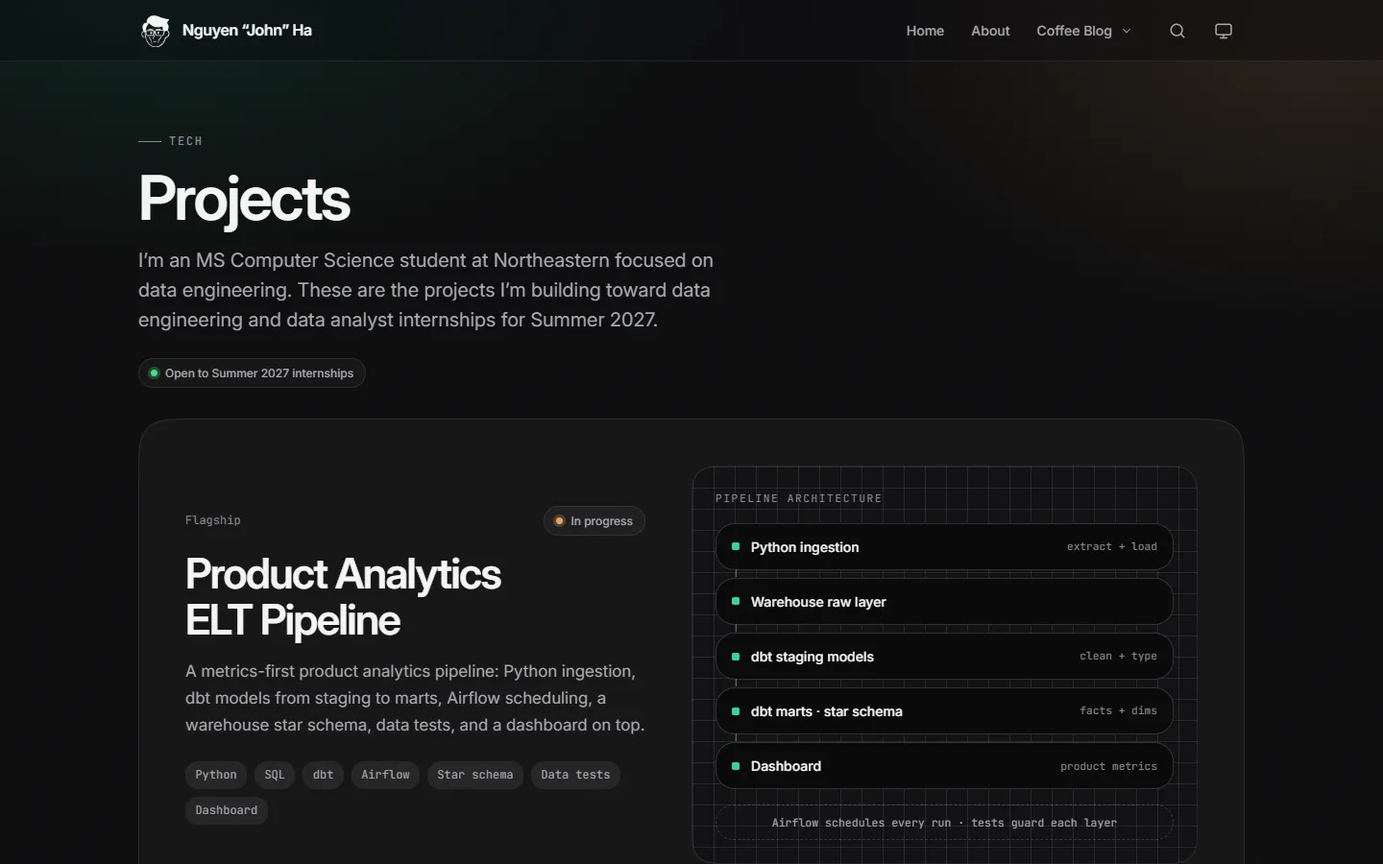
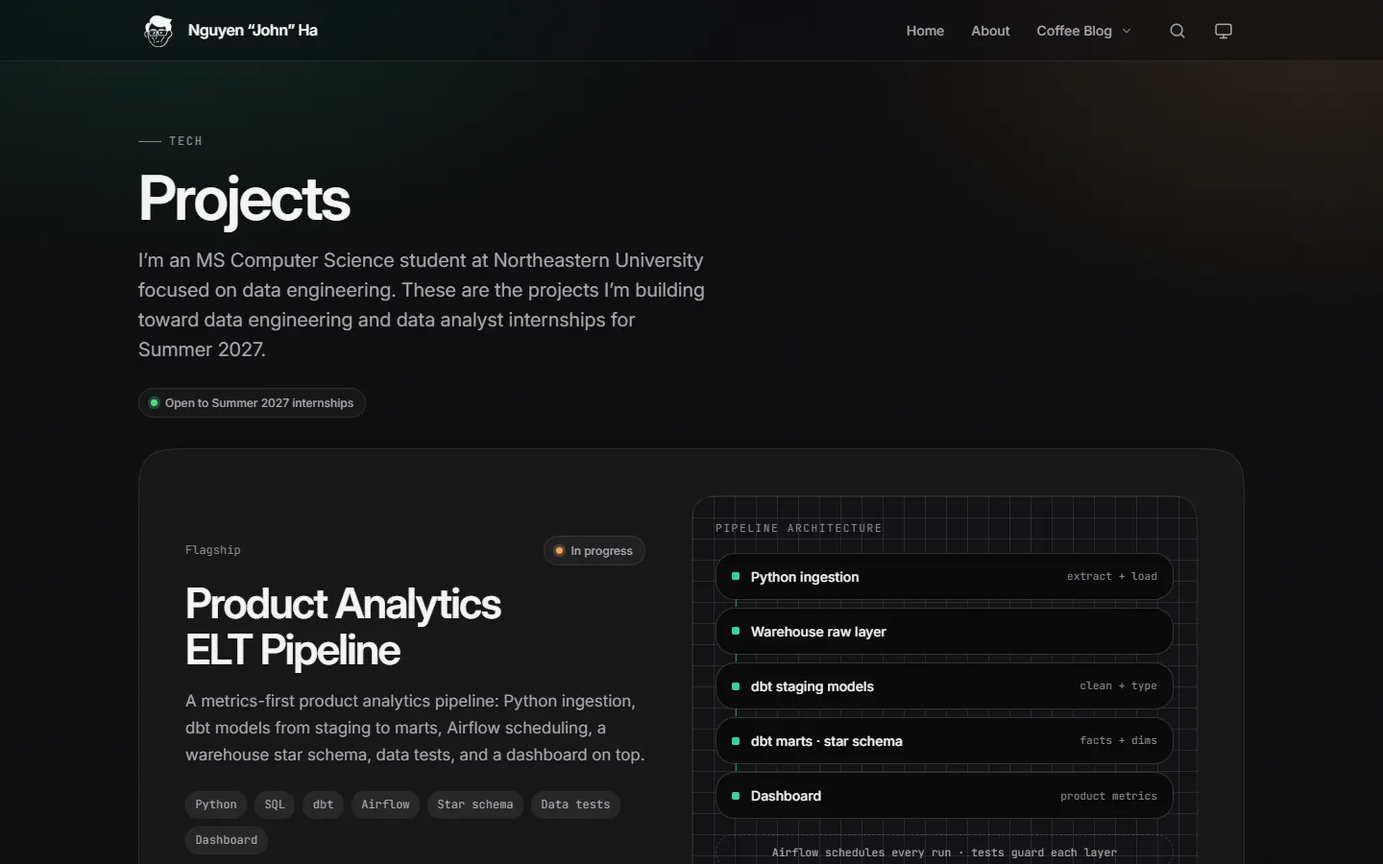
Use full Northeastern University name; refresh coffee photos
- Northeastern University spelled out in hero, About, Tech, OG text and
  image, README, and BRIEF
- Phin: 1898 Father Maillard coffee-garden photo (public domain) and a
  Ho Chi Minh City cafe scene (CC BY 2.0) replace an extra phin photo
- Espresso: tiger-striped crema demitasse photo (CC BY-SA 2.0)
- Flash brew: tighter crop with a warm color grade
- Credits record source site and edits per photo

diff --git a/site/coffee-blog/vietnamese-phin/index.html b/site/coffee-blog/vietnamese-phin/index.html
@@ -16,7 +16,7 @@
 <meta property="og:image" content="https://johnha.info/assets/img/og-image.jpg">
 <meta property="og:image:width" content="1200">
 <meta property="og:image:height" content="630">
-<meta property="og:image:alt" content="Nguyen “John” Ha, MSCS at Northeastern with a data engineering focus">
+<meta property="og:image:alt" content="Nguyen “John” Ha, MSCS at Northeastern University with a data engineering focus">
 <meta name="twitter:card" content="summary_large_image">
 <script>(function(){var p="system";try{p=localStorage.getItem("theme")||"system"}catch(e){}var d=document.documentElement;d.dataset.themePref=p;d.dataset.theme=p==="system"?(matchMedia("(prefers-color-scheme: light)").matches?"light":"dark"):p})()</script>
 <link rel="preload" href="/assets/fonts/inter-latin.woff2" as="font" type="font/woff2" crossorigin>
@@ -122,10 +122,14 @@
     </figure>
 
     <h2>A short history of Vietnamese coffee</h2>
-    <p>Coffee arrived in Vietnam with French colonization in the 1850s; in 1857, a French priest brought a single arabica tree to the country hoping to turn it into a crop. Today Vietnam is known mainly for robusta, which makes up about 95% of its coffee production (Meneses, 2023). Condensed milk became part of the drink early on because fresh milk was hard to find when coffee first arrived (Meneses, 2023), and it keeps without refrigeration because it is preserved with sugar (Copper Cow Coffee, n.d.). The French influence also explains the traditional dark, French-style roast (Copper Cow Coffee, n.d.).</p>
     <figure class="prose-figure prose-figure--portrait">
-      <div class="frame sq" style="aspect-ratio: 4 / 5"><img src="/assets/img/coffee-phin-saigon-960.webp" srcset="/assets/img/coffee-phin-saigon-560.webp 560w, /assets/img/coffee-phin-saigon-960.webp 960w" sizes="(min-width: 48rem) 26rem, 80vw" width="960" height="1200" alt="A phin filter brewing on top of a cup at a café table in Ho Chi Minh City" loading="lazy" decoding="async"></div>
-      <figcaption>A phin brewing at a café in Ho Chi Minh City. <span class="credit">Photo: <a href="https://commons.wikimedia.org/wiki/File:Cafe_Qu%E1%BB%91c_H%C3%B9ng_ng4th9n2022_(c%C3%A0_ph%C3%AA_phin_%C4%91ang_pha)_(3).jpg" target="_blank" rel="noopener">Cafe Quốc Hùng (cà phê phin đang pha)</a> by Phương Huy, <a href="https://creativecommons.org/publicdomain/zero/1.0/" target="_blank" rel="noopener license">CC0 1.0</a>, via Wikimedia Commons (cropped and resized).</span></figcaption>
+      <div class="frame sq" style="aspect-ratio: 4 / 5"><img src="/assets/img/coffee-phin-history-960.webp" srcset="/assets/img/coffee-phin-history-560.webp 560w, /assets/img/coffee-phin-history-960.webp 960w" sizes="(min-width: 48rem) 26rem, 80vw" width="960" height="1200" alt="Father Maillard, a bearded French priest in a pith helmet, standing among tall coffee trees, 1898" loading="lazy" decoding="async"></div>
+      <figcaption>Father Maillard, parish priest of Phu-thuong, among his coffee trees near Tourane (today’s Da Nang), March 28, 1898. Photograph by André Salles. <span class="credit">Photo: <a href="https://commons.wikimedia.org/wiki/File:Tonkin._Pr%C3%A8s_Tourane._Le_P%C3%A8re_Maillard,_cur%C3%A9_de_Phu-thuong,_au_milieu_de_ses_caf%C3%A9iers_01.jpg" target="_blank" rel="noopener">Le Père Maillard, curé de Phu-thuong, au milieu de ses caféiers</a> by André Salles, <a href="https://commons.wikimedia.org/wiki/File:Tonkin._Pr%C3%A8s_Tourane._Le_P%C3%A8re_Maillard,_cur%C3%A9_de_Phu-thuong,_au_milieu_de_ses_caf%C3%A9iers_01.jpg" target="_blank" rel="noopener license">Public domain</a>, via Wikimedia Commons (glass-plate border cropped).</span></figcaption>
+    </figure>
+    <p>Coffee arrived in Vietnam with French colonization in the 1850s; in 1857, a French priest brought a single arabica tree to the country hoping to turn it into a crop. Today Vietnam is known mainly for robusta, which makes up about 95% of its coffee production (Meneses, 2023). Condensed milk became part of the drink early on because fresh milk was hard to find when coffee first arrived (Meneses, 2023), and it keeps without refrigeration because it is preserved with sugar (Copper Cow Coffee, n.d.). The French influence also explains the traditional dark, French-style roast (Copper Cow Coffee, n.d.).</p>
+    <figure class="prose-figure">
+      <div class="frame sq" style="aspect-ratio: 3 / 2"><img src="/assets/img/coffee-phin-cafe-1024.webp" srcset="/assets/img/coffee-phin-cafe-720.webp 720w, /assets/img/coffee-phin-cafe-1024.webp 1024w" sizes="(min-width: 48rem) 42rem, 100vw" width="1024" height="683" alt="People sitting and talking at the long row of sidewalk tables of the Xưa và Nay café in Ho Chi Minh City, in black and white" loading="lazy" decoding="async"></div>
+      <figcaption>Coffee as a social ritual: an afternoon at the Xưa và Nay (“Then and Now”) café in Ho Chi Minh City. <span class="credit">Photo: <a href="https://www.flickr.com/photos/21160385@N02/24247158236" target="_blank" rel="noopener">Cafe Saigon Xưa Và Nay (HCMC, Vietnam 2016)</a> by paularps, <a href="https://creativecommons.org/licenses/by/2.0/" target="_blank" rel="noopener license">CC BY 2.0</a>, via Flickr (cropped and resized).</span></figcaption>
     </figure>
     <p>Vietnamese phin coffee is more than a drink. It is a window into Vietnam’s coffee culture and its history. Try it at home; it might become your favorite way to slow down.</p>
 

diff --git a/site/coffee-blog/espresso/index.html b/site/coffee-blog/espresso/index.html
@@ -16,7 +16,7 @@
 <meta property="og:image" content="https://johnha.info/assets/img/og-image.jpg">
 <meta property="og:image:width" content="1200">
 <meta property="og:image:height" content="630">
-<meta property="og:image:alt" content="Nguyen “John” Ha, MSCS at Northeastern with a data engineering focus">
+<meta property="og:image:alt" content="Nguyen “John” Ha, MSCS at Northeastern University with a data engineering focus">
 <meta name="twitter:card" content="summary_large_image">
 <script>(function(){var p="system";try{p=localStorage.getItem("theme")||"system"}catch(e){}var d=document.documentElement;d.dataset.themePref=p;d.dataset.theme=p==="system"?(matchMedia("(prefers-color-scheme: light)").matches?"light":"dark"):p})()</script>
 <link rel="preload" href="/assets/fonts/inter-latin.woff2" as="font" type="font/woff2" crossorigin>
@@ -94,8 +94,8 @@
     <h2>What is espresso?</h2>
     <p>Do I really need to introduce this? Just kidding. Espresso is a small, concentrated coffee made by forcing hot water through finely ground, tightly packed coffee at high pressure. The Specialty Coffee Association’s classic definition is a 25–35 ml drink brewed from 7–9 g of coffee (14–18 g for a double) with water at 90.5–96.1 °C, at 9–10 atmospheres of pressure, in 20–30 seconds, topped with a thick, dark golden crema. Modern cafés have moved on a little: a 2016 survey of baristas found the typical shot uses an 18–20 g dose, yields about 36.5 g, and runs 25–30 seconds at 9 bars, close to a 1:2 brew ratio (Specialty Coffee Association, 2018). Espresso is also the base of lattes, cappuccinos, and Americanos.</p>
     <figure class="prose-figure">
-      <div class="frame sq" style="aspect-ratio: 16 / 10"><img src="/assets/img/coffee-espresso-1600.webp" srcset="/assets/img/coffee-espresso-640.webp 640w, /assets/img/coffee-espresso-1024.webp 1024w, /assets/img/coffee-espresso-1600.webp 1600w" sizes="(min-width: 48rem) 42rem, 100vw" width="1600" height="1000" alt="Top-down view of an espresso with golden-brown crema in a white cup on a black saucer" loading="lazy" decoding="async"></div>
-      <figcaption>A fresh espresso with its layer of crema. <span class="credit">Photo: <a href="https://commons.wikimedia.org/wiki/File:Espresso_Coffee_01.jpg" target="_blank" rel="noopener">Espresso Coffee 01</a> by Jubair1985, <a href="https://creativecommons.org/publicdomain/zero/1.0/" target="_blank" rel="noopener license">CC0 1.0</a>, via Wikimedia Commons (cropped and resized).</span></figcaption>
+      <div class="frame sq" style="aspect-ratio: 16 / 10"><img src="/assets/img/coffee-espresso-1600.webp" srcset="/assets/img/coffee-espresso-640.webp 640w, /assets/img/coffee-espresso-1024.webp 1024w, /assets/img/coffee-espresso-1600.webp 1600w" sizes="(min-width: 48rem) 42rem, 100vw" width="1600" height="1000" alt="A double espresso in a white demitasse with a thick, tiger-striped golden crema" loading="lazy" decoding="async"></div>
+      <figcaption>A double espresso with a thick, tiger-striped crema, the sign of a fresh, well-extracted shot. <span class="credit">Photo: <a href="https://commons.wikimedia.org/wiki/File:Double_Espresso_Shot_in_a_Demitasse.jpg" target="_blank" rel="noopener">Double Espresso Shot in a Demitasse</a> by massage-techniques, <a href="https://creativecommons.org/licenses/by-sa/2.0/" target="_blank" rel="noopener license">CC BY-SA 2.0</a>, via Wikimedia Commons (cropped, resized, and color-graded; shared under CC BY-SA 2.0).</span></figcaption>
     </figure>
 
     <h2>My usual espresso profile</h2>

diff --git a/site/coffee-blog/pour-over-flash-brew/index.html b/site/coffee-blog/pour-over-flash-brew/index.html
@@ -16,7 +16,7 @@
 <meta property="og:image" content="https://johnha.info/assets/img/og-image.jpg">
 <meta property="og:image:width" content="1200">
 <meta property="og:image:height" content="630">
-<meta property="og:image:alt" content="Nguyen “John” Ha, MSCS at Northeastern with a data engineering focus">
+<meta property="og:image:alt" content="Nguyen “John” Ha, MSCS at Northeastern University with a data engineering focus">
 <meta name="twitter:card" content="summary_large_image">
 <script>(function(){var p="system";try{p=localStorage.getItem("theme")||"system"}catch(e){}var d=document.documentElement;d.dataset.themePref=p;d.dataset.theme=p==="system"?(matchMedia("(prefers-color-scheme: light)").matches?"light":"dark"):p})()</script>
 <link rel="preload" href="/assets/fonts/inter-latin.woff2" as="font" type="font/woff2" crossorigin>
@@ -121,8 +121,8 @@
     <h2>What is flash brew (Japanese iced coffee)?</h2>
     <p>Flash brew, also called Japanese iced coffee, is a pour-over brewed directly onto ice. Part of the brewing water is replaced by ice in the carafe, so the hot coffee cools the moment it lands. The method dates to around the 1960s in Japan and spread through specialty coffee from the 2010s onward (Gates, 2024). Brewing hot and chilling right away keeps more of the coffee’s aroma and acidity than steeping in cold water, which is why flash brew tastes brighter and cleaner than most iced coffee (Janzen, 2016).</p>
     <figure class="prose-figure prose-figure--portrait">
-      <div class="frame sq" style="aspect-ratio: 4 / 5"><img src="/assets/img/coffee-flash-brew-960.webp" srcset="/assets/img/coffee-flash-brew-560.webp 560w, /assets/img/coffee-flash-brew-960.webp 960w" sizes="(min-width: 48rem) 26rem, 80vw" width="960" height="1200" alt="A V60 dripper on a glass server filled with ice, sitting on a digital scale in front of a brick wall" loading="lazy" decoding="async"></div>
-      <figcaption>Flash brew: the V60 drips hot coffee straight onto ice in the server, on a scale so the ice counts toward the water. <span class="credit">Photo: <a href="https://commons.wikimedia.org/wiki/File:Iced_filter_coffee_with_Assembly_coffee_(49905389451).jpg" target="_blank" rel="noopener">Iced filter coffee with Assembly coffee</a> by Bex Walton, <a href="https://creativecommons.org/licenses/by/2.0/" target="_blank" rel="noopener license">CC BY 2.0</a>, via Wikimedia Commons (cropped and resized).</span></figcaption>
+      <div class="frame sq" style="aspect-ratio: 4 / 5"><img src="/assets/img/coffee-flash-brew-960.webp" srcset="/assets/img/coffee-flash-brew-560.webp 560w, /assets/img/coffee-flash-brew-960.webp 960w" sizes="(min-width: 48rem) 26rem, 80vw" width="960" height="1200" alt="A V60 dripper on a glass server filled with ice, sitting on a digital scale in warm sunlight" loading="lazy" decoding="async"></div>
+      <figcaption>Flash brew: the V60 drips hot coffee straight onto ice in the server, on a scale so the ice counts toward the water. <span class="credit">Photo: <a href="https://commons.wikimedia.org/wiki/File:Iced_filter_coffee_with_Assembly_coffee_(49905389451).jpg" target="_blank" rel="noopener">Iced filter coffee with Assembly coffee</a> by Bex Walton, <a href="https://creativecommons.org/licenses/by/2.0/" target="_blank" rel="noopener license">CC BY 2.0</a>, via Wikimedia Commons (cropped, resized, and color-graded).</span></figcaption>
     </figure>
 
     <h2>How to make flash brew, step by step</h2>

diff --git a/site/index.html b/site/index.html
@@ -11,12 +11,12 @@
 <meta property="og:type" content="website">
 <meta property="og:site_name" content="Nguyen “John” Ha">
 <meta property="og:title" content="Nguyen “John” Ha | Portfolio">
-<meta property="og:description" content="MSCS @ Northeastern · data engineering focus · business/marketing roots.">
+<meta property="og:description" content="MSCS @ Northeastern University · data engineering focus · business/marketing roots.">
 <meta property="og:url" content="https://johnha.info/">
 <meta property="og:image" content="https://johnha.info/assets/img/og-image.jpg">
 <meta property="og:image:width" content="1200">
 <meta property="og:image:height" content="630">
-<meta property="og:image:alt" content="Nguyen “John” Ha, MSCS at Northeastern with a data engineering focus">
+<meta property="og:image:alt" content="Nguyen “John” Ha, MSCS at Northeastern University with a data engineering focus">
 <meta name="twitter:card" content="summary_large_image">
 <script>(function(){var p="system";try{p=localStorage.getItem("theme")||"system"}catch(e){}var d=document.documentElement;d.dataset.themePref=p;d.dataset.theme=p==="system"?(matchMedia("(prefers-color-scheme: light)").matches?"light":"dark"):p})()</script>
 <link rel="preload" href="/assets/fonts/inter-latin.woff2" as="font" type="font/woff2" crossorigin>
@@ -78,7 +78,7 @@
     <span class="muted">Welcome to</span>
     <span class="gradient-text">John’s Portfolio!</span>
   </h1>
-  <p class="hero__subtitle"><span>MSCS @ Northeastern</span><span class="dot" aria-hidden="true">·</span><span>data engineering focus</span><span class="dot" aria-hidden="true">·</span><span>business/marketing roots</span></p>
+  <p class="hero__subtitle"><span>MSCS @ Northeastern University</span><span class="dot" aria-hidden="true">·</span><span>data engineering focus</span><span class="dot" aria-hidden="true">·</span><span>business/marketing roots</span></p>
   <ul class="socials" aria-label="Social profiles">
     <li><a class="social" href="https://www.linkedin.com/in/nguyenha912/" target="_blank" rel="noopener me" aria-label="LinkedIn (opens in a new tab)"><svg viewBox="0 0 24 24" fill="currentColor" aria-hidden="true"><path d="M20.45 20.45h-3.55v-5.57c0-1.33-.03-3.04-1.85-3.04-1.85 0-2.14 1.45-2.14 2.94v5.67H9.36V9h3.41v1.56h.05c.48-.9 1.64-1.85 3.37-1.85 3.6 0 4.27 2.37 4.27 5.46v6.28zM5.34 7.43a2.06 2.06 0 1 1 0-4.13 2.06 2.06 0 0 1 0 4.13zM7.12 20.45H3.56V9h3.56v11.45zM22.22 0H1.77C.79 0 0 .77 0 1.73v20.54C0 23.23.79 24 1.77 24h20.45c.98 0 1.78-.77 1.78-1.73V1.73C24 .77 23.2 0 22.22 0z"/></svg></a></li>
     <li><a class="social" href="https://github.com/johnha912" target="_blank" rel="noopener me" aria-label="GitHub (opens in a new tab)"><svg viewBox="0 0 24 24" fill="currentColor" aria-hidden="true"><path d="M12 .3a12 12 0 0 0-3.8 23.38c.6.12.83-.26.83-.57l-.02-2.04c-3.34.72-4.04-1.61-4.04-1.61-.55-1.39-1.34-1.76-1.34-1.76-1.08-.74.09-.73.09-.73 1.2.09 1.84 1.24 1.84 1.24 1.07 1.83 2.8 1.3 3.49 1 .1-.78.42-1.31.76-1.61-2.67-.3-5.47-1.33-5.47-5.93 0-1.31.47-2.38 1.24-3.22-.14-.3-.54-1.52.1-3.18 0 0 1-.32 3.3 1.23a11.5 11.5 0 0 1 6 0c2.28-1.55 3.29-1.23 3.29-1.23.64 1.66.24 2.88.12 3.18a4.65 4.65 0 0 1 1.23 3.22c0 4.61-2.8 5.62-5.48 5.92.42.36.81 1.1.81 2.22l-.01 3.29c0 .32.21.7.82.58A12 12 0 0 0 12 .3"/></svg></a></li>

diff --git a/site/about/index.html b/site/about/index.html
@@ -16,7 +16,7 @@
 <meta property="og:image" content="https://johnha.info/assets/img/og-image.jpg">
 <meta property="og:image:width" content="1200">
 <meta property="og:image:height" content="630">
-<meta property="og:image:alt" content="Nguyen “John” Ha, MSCS at Northeastern with a data engineering focus">
+<meta property="og:image:alt" content="Nguyen “John” Ha, MSCS at Northeastern University with a data engineering focus">
 <meta name="twitter:card" content="summary_large_image">
 <script>(function(){var p="system";try{p=localStorage.getItem("theme")||"system"}catch(e){}var d=document.documentElement;d.dataset.themePref=p;d.dataset.theme=p==="system"?(matchMedia("(prefers-color-scheme: light)").matches?"light":"dark"):p})()</script>
 <link rel="preload" href="/assets/fonts/inter-latin.woff2" as="font" type="font/woff2" crossorigin>
@@ -80,7 +80,7 @@
 </section>
 
 <section class="container container--narrow">
-  <p class="intro" data-reveal>Hi, I’m <strong>Nguyên, or you can just call me John!</strong> I started in business: international business in Ho Chi Minh City, a master’s in marketing in Boston, then years in <strong>market research</strong>. From there I moved into <strong>financial engineering</strong>, and now <strong>computer science at Northeastern</strong>, where I’m focused on <strong>data engineering</strong>. I’m passionate about leveraging technology, finance, and data-driven insights to solve real-world challenges.</p>
+  <p class="intro" data-reveal>Hi, I’m <strong>Nguyên, or you can just call me John!</strong> I started in business: international business in Ho Chi Minh City, a master’s in marketing in Boston, then years in <strong>market research</strong>. From there I moved into <strong>financial engineering</strong>, and now <strong>computer science at Northeastern University</strong>, where I’m focused on <strong>data engineering</strong>. I’m passionate about leveraging technology, finance, and data-driven insights to solve real-world challenges.</p>
   <ol class="journey" aria-label="Career path" data-reveal>
     <li>Marketing &amp; market research</li>
     <li>Financial engineering</li>

diff --git a/site/tech/index.html b/site/tech/index.html
@@ -16,7 +16,7 @@
 <meta property="og:image" content="https://johnha.info/assets/img/og-image.jpg">
 <meta property="og:image:width" content="1200">
 <meta property="og:image:height" content="630">
-<meta property="og:image:alt" content="Nguyen “John” Ha, MSCS at Northeastern with a data engineering focus">
+<meta property="og:image:alt" content="Nguyen “John” Ha, MSCS at Northeastern University with a data engineering focus">
 <meta name="twitter:card" content="summary_large_image">
 <script>(function(){var p="system";try{p=localStorage.getItem("theme")||"system"}catch(e){}var d=document.documentElement;d.dataset.themePref=p;d.dataset.theme=p==="system"?(matchMedia("(prefers-color-scheme: light)").matches?"light":"dark"):p})()</script>
 <link rel="preload" href="/assets/fonts/inter-latin.woff2" as="font" type="font/woff2" crossorigin>
@@ -70,7 +70,7 @@
 <section class="container page-head">
   <p class="eyebrow">Tech</p>
   <h1 class="page-head__title">Projects</h1>
-  <p class="page-head__lede">I’m an MS Computer Science student at Northeastern focused on data engineering. These are the projects I’m building toward data engineering and data analyst internships for Summer 2027.</p>
+  <p class="page-head__lede">I’m an MS Computer Science student at Northeastern University focused on data engineering. These are the projects I’m building toward data engineering and data analyst internships for Summer 2027.</p>
   <div class="btn-row" style="margin-top: var(--space-5)">
     <span class="pill pill--status pill--live">Open to Summer 2027 internships</span>
   </div>
@@ -142,7 +142,7 @@
     </article>
     <article class="earlier sq" id="omnirag" data-reveal style="--i:1">
       <div>
-        <p class="earlier__meta">Northeastern · Spring 2026</p>
+        <p class="earlier__meta">Northeastern University · Spring 2026</p>
         <h3>OmniRAG</h3>
         <p>A domain-aware Retrieval-Augmented Generation (RAG) engine built with Java 21 and Spring Boot with teammates Rui Song and Siyuan Liang. Upload documents, ask questions in natural language, and get grounded answers with source citations.</p>
         

diff --git a/site/404.html b/site/404.html
@@ -16,7 +16,7 @@
 <meta property="og:image" content="https://johnha.info/assets/img/og-image.jpg">
 <meta property="og:image:width" content="1200">
 <meta property="og:image:height" content="630">
-<meta property="og:image:alt" content="Nguyen “John” Ha, MSCS at Northeastern with a data engineering focus">
+<meta property="og:image:alt" content="Nguyen “John” Ha, MSCS at Northeastern University with a data engineering focus">
 <meta name="twitter:card" content="summary_large_image">
 <script>(function(){var p="system";try{p=localStorage.getItem("theme")||"system"}catch(e){}var d=document.documentElement;d.dataset.themePref=p;d.dataset.theme=p==="system"?(matchMedia("(prefers-color-scheme: light)").matches?"light":"dark"):p})()</script>
 <link rel="preload" href="/assets/fonts/inter-latin.woff2" as="font" type="font/woff2" crossorigin>

diff --git a/site/coffee-blog/aeropress/index.html b/site/coffee-blog/aeropress/index.html
@@ -16,7 +16,7 @@
 <meta property="og:image" content="https://johnha.info/assets/img/og-image.jpg">
 <meta property="og:image:width" content="1200">
 <meta property="og:image:height" content="630">
-<meta property="og:image:alt" content="Nguyen “John” Ha, MSCS at Northeastern with a data engineering focus">
+<meta property="og:image:alt" content="Nguyen “John” Ha, MSCS at Northeastern University with a data engineering focus">
 <meta name="twitter:card" content="summary_large_image">
 <script>(function(){var p="system";try{p=localStorage.getItem("theme")||"system"}catch(e){}var d=document.documentElement;d.dataset.themePref=p;d.dataset.theme=p==="system"?(matchMedia("(prefers-color-scheme: light)").matches?"light":"dark"):p})()</script>
 <link rel="preload" href="/assets/fonts/inter-latin.woff2" as="font" type="font/woff2" crossorigin>

diff --git a/site/coffee-blog/index.html b/site/coffee-blog/index.html
@@ -16,7 +16,7 @@
 <meta property="og:image" content="https://johnha.info/assets/img/og-image.jpg">
 <meta property="og:image:width" content="1200">
 <meta property="og:image:height" content="630">
-<meta property="og:image:alt" content="Nguyen “John” Ha, MSCS at Northeastern with a data engineering focus">
+<meta property="og:image:alt" content="Nguyen “John” Ha, MSCS at Northeastern University with a data engineering focus">
 <meta name="twitter:card" content="summary_large_image">
 <script>(function(){var p="system";try{p=localStorage.getItem("theme")||"system"}catch(e){}var d=document.documentElement;d.dataset.themePref=p;d.dataset.theme=p==="system"?(matchMedia("(prefers-color-scheme: light)").matches?"light":"dark"):p})()</script>
 <link rel="preload" href="/assets/fonts/inter-latin.woff2" as="font" type="font/woff2" crossorigin>

diff --git a/site/contact/index.html b/site/contact/index.html
@@ -16,7 +16,7 @@
 <meta property="og:image" content="https://johnha.info/assets/img/og-image.jpg">
 <meta property="og:image:width" content="1200">
 <meta property="og:image:height" content="630">
-<meta property="og:image:alt" content="Nguyen “John” Ha, MSCS at Northeastern with a data engineering focus">
+<meta property="og:image:alt" content="Nguyen “John” Ha, MSCS at Northeastern University with a data engineering focus">
 <meta name="twitter:card" content="summary_large_image">
 <script>(function(){var p="system";try{p=localStorage.getItem("theme")||"system"}catch(e){}var d=document.documentElement;d.dataset.themePref=p;d.dataset.theme=p==="system"?(matchMedia("(prefers-color-scheme: light)").matches?"light":"dark"):p})()</script>
 <link rel="preload" href="/assets/fonts/inter-latin.woff2" as="font" type="font/woff2" crossorigin>

diff --git a/docs/IMAGE-CREDITS.md b/docs/IMAGE-CREDITS.md
@@ -1,20 +1,21 @@
 # Image credits
 
-Photos inside the Coffee Blog articles are freely licensed images from Wikimedia Commons, cropped and resized to WebP. Each one is credited on the page directly under the photo. Licenses were read from the Commons API (`LicenseShortName`, `Artist`) on 2026-10-07; only public-domain, CC0, CC BY, and CC BY-SA files were used.
+Photos inside the Coffee Blog articles are freely licensed images from Wikimedia Commons and Flickr (found via Openverse), cropped and resized to WebP; a few are color-graded, as noted. Each one is credited on the page directly under the photo. Licenses were read from the Commons API (`LicenseShortName`, `Artist`) on 2026-10-07; only public-domain, CC0, CC BY, and CC BY-SA files were used. Flickr licenses were read from the Openverse API.
 
 | Site file (`site/assets/img/`) | Used in | Original | Author | License |
 |---|---|---|---|---|
 | `coffee-pour-over-*.webp` | Pour Over / Flash Brew | [Manual drip (pour-over) coffee](https://commons.wikimedia.org/wiki/File:Manual_drip_(pour-over)_coffee.jpg) | Kim Sanso | [CC0 1.0](https://creativecommons.org/publicdomain/zero/1.0/) |
-| `coffee-flash-brew-*.webp` | Pour Over / Flash Brew | [Iced filter coffee with Assembly coffee](https://commons.wikimedia.org/wiki/File:Iced_filter_coffee_with_Assembly_coffee_(49905389451).jpg) | Bex Walton | [CC BY 2.0](https://creativecommons.org/licenses/by/2.0/) |
+| `coffee-flash-brew-*.webp` | Pour Over / Flash Brew | [Iced filter coffee with Assembly coffee](https://commons.wikimedia.org/wiki/File:Iced_filter_coffee_with_Assembly_coffee_(49905389451).jpg) | Bex Walton | [CC BY 2.0](https://creativecommons.org/licenses/by/2.0/), cropped and color-graded |
 | `coffee-aeropress-*.webp` | AeroPress | [2015 AeroPress and 2020 AeroPress Go](https://commons.wikimedia.org/wiki/File:2015_AeroPress_and_2020_AeroPress_Go.jpg) | Bex Walton | [CC BY 2.0](https://creativecommons.org/licenses/by/2.0/) |
 | `coffee-aeropress-brewing-*.webp` | AeroPress | [Brewing Coffee with AeroPress](https://commons.wikimedia.org/wiki/File:Brewing_Coffee_with_AeroPress.jpg) | Craft Coffee Spot | [CC BY 2.0](https://creativecommons.org/licenses/by/2.0/) |
-| `coffee-espresso-*.webp` | Espresso | [Espresso Coffee 01](https://commons.wikimedia.org/wiki/File:Espresso_Coffee_01.jpg) | Jubair1985 | [CC0 1.0](https://creativecommons.org/publicdomain/zero/1.0/) |
+| `coffee-espresso-*.webp` | Espresso | [Double Espresso Shot in a Demitasse](https://commons.wikimedia.org/wiki/File:Double_Espresso_Shot_in_a_Demitasse.jpg) | massage-techniques | [CC BY-SA 2.0](https://creativecommons.org/licenses/by-sa/2.0/), cropped and color-graded |
 | `coffee-espresso-pull-*.webp` | Espresso | [Pulling a triple espresso shot with a naked portafilter](https://commons.wikimedia.org/wiki/File:Pulling_a_triple_espresso_shot_with_a_naked_portafilter.jpg) | massage-techniques | [CC BY-SA 2.0](https://creativecommons.org/licenses/by-sa/2.0/) |
 | `coffee-phin-*.webp` | Vietnamese Phin | [Vietnamese Hot Drip Coffee - The Big Bowl](https://commons.wikimedia.org/wiki/File:Vietnamese_Hot_Drip_Coffee_-_The_Big_Bowl.jpg) | Andy Li | [CC0 1.0](https://creativecommons.org/publicdomain/zero/1.0/) |
 | `coffee-phin-iced-*.webp` | Vietnamese Phin | [Ca Phe Sua Da](https://commons.wikimedia.org/wiki/File:Ca_Phe_Sua_Da.jpg) | Clarin | [CC BY 2.5](https://creativecommons.org/licenses/by/2.5/) |
-| `coffee-phin-saigon-*.webp` | Vietnamese Phin | [Cafe Quốc Hùng (cà phê phin đang pha)](https://commons.wikimedia.org/wiki/File:Cafe_Qu%E1%BB%91c_H%C3%B9ng_ng4th9n2022_(c%C3%A0_ph%C3%AA_phin_%C4%91ang_pha)_(3).jpg) | Phương Huy | [CC0 1.0](https://creativecommons.org/publicdomain/zero/1.0/) |
+| `coffee-phin-history-*.webp` | Vietnamese Phin | [Le Père Maillard, curé de Phu-thuong, au milieu de ses caféiers (1898)](https://commons.wikimedia.org/wiki/File:Tonkin._Pr%C3%A8s_Tourane._Le_P%C3%A8re_Maillard,_cur%C3%A9_de_Phu-thuong,_au_milieu_de_ses_caf%C3%A9iers_01.jpg) | André Salles | Public domain (glass-plate border cropped) |
+| `coffee-phin-cafe-*.webp` | Vietnamese Phin | [Cafe Saigon Xưa Và Nay (HCMC, Vietnam 2016)](https://www.flickr.com/photos/21160385@N02/24247158236) on Flickr | paularps | [CC BY 2.0](https://creativecommons.org/licenses/by/2.0/) |
 
-**Share-alike note:** the cropped/resized version of the CC BY-SA photo (espresso pull) is an adaptation and is shared under the same CC BY-SA license as its original.
+**Share-alike note:** the edited versions of the two CC BY-SA photos (both espresso images) are adaptations and are shared under the same CC BY-SA license as their originals.
 
 **Not used:** the old Google Sites coffee pages showed third-party images (The New York Times, Black Oak, AeroPress, Freepik, Daily Coffee News, De'Longhi, BrainUp Coffee, Chuyện Xưa). Their licensing is unknown, so they were not copied.
 

diff --git a/docs/BRIEF.md b/docs/BRIEF.md
@@ -64,7 +64,7 @@ Content agents may **only** use the facts in this section. If a fact is missing,
 **Homepage — preserve the old landing page's structure.** The layout does not change; only the styling does (Section 4's 2026 look is applied *to* this skeleton). Top to bottom:
 
 1. **Header** — logo mark + "Nguyen 'John' Ha" on the left; nav on the right: **Home, About, "Coffee Blog"** (dropdown with the four brew guides: Pour Over / Flash Brew, AeroPress, Espresso, Vietnamese Phin), plus the search icon as on the old site.
-2. **Centered hero** — portrait image above the two-line welcome heading **"Welcome to / John's Portfolio!"** (correct spelling — the old site's "Porfolio" typo is silently fixed and never reproduced). **One** modern addition is allowed: a one-line positioning subtitle under the heading — "MSCS @ Northeastern · data engineering focus · business/marketing roots".
+2. **Centered hero** — portrait image above the two-line welcome heading **"Welcome to / John's Portfolio!"** (correct spelling — the old site's "Porfolio" typo is silently fixed and never reproduced). **One** modern addition is allowed: a one-line positioning subtitle under the heading — "MSCS @ Northeastern University · data engineering focus · business/marketing roots" (owner correction 2026-10-07: always the full name, Northeastern University).
 3. **Social row** — three circular buttons directly under the heading area: LinkedIn (linkedin.com/in/nguyenha912), GitHub (github.com/johnha912), Instagram (instagram.com/johnha.ns).
 4. **Section button stack** — the signature element: five large, wide buttons in a vertical stack, in this order: **Tech, Coffee, Music, Photography, Contact**. This stack is the page's main navigation device. (Tech opens the internal Projects page; Music/Photography may link externally per the rows above; Contact opens the internal contact page/section.)
 5. **Footer** — minimal, centered: a "Back to top" button (owner request 2026-10-07, on every page) above "© <year> Nguyen 'John' Ha".
